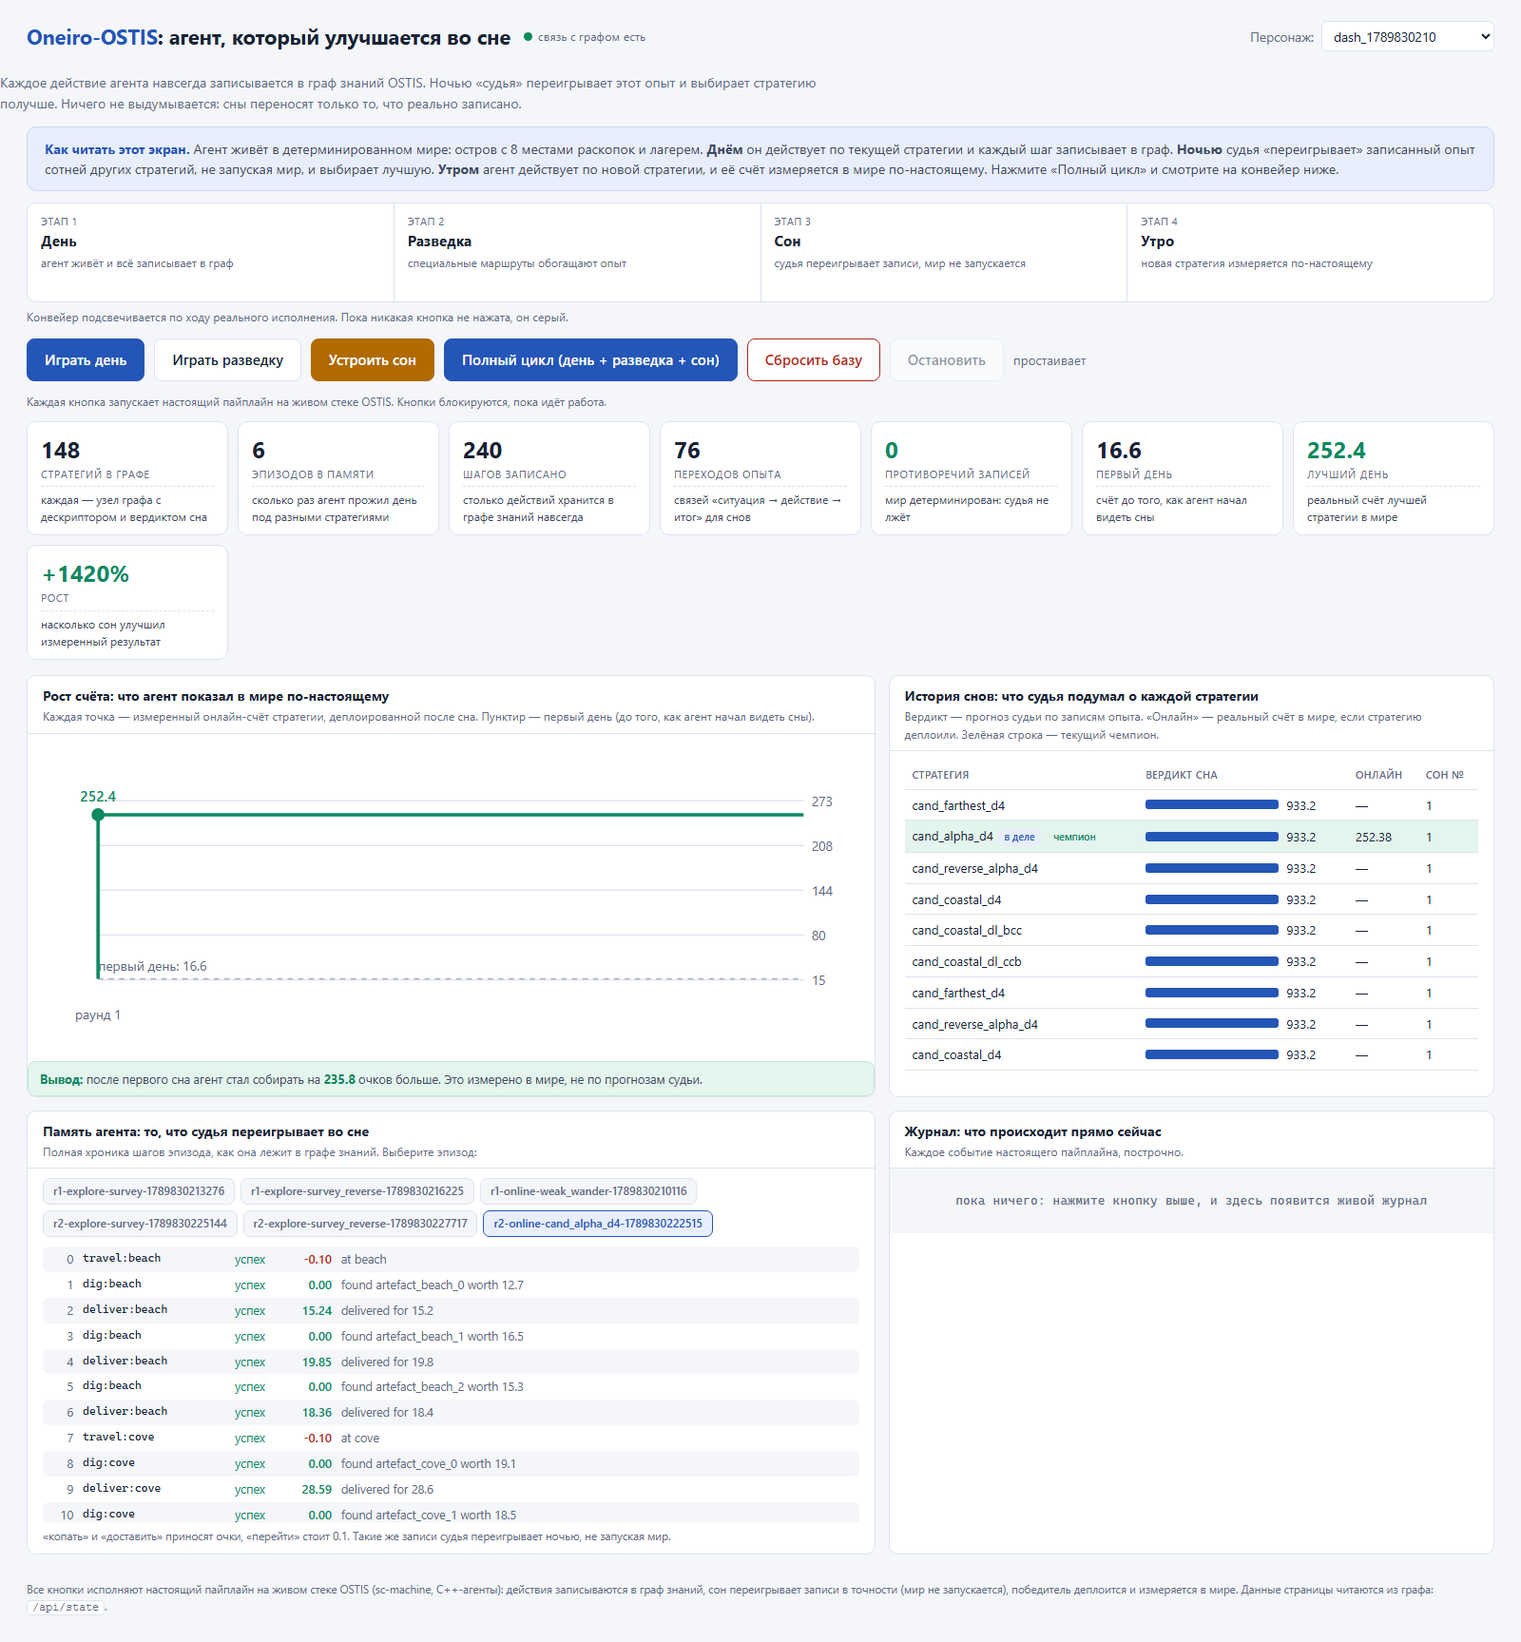
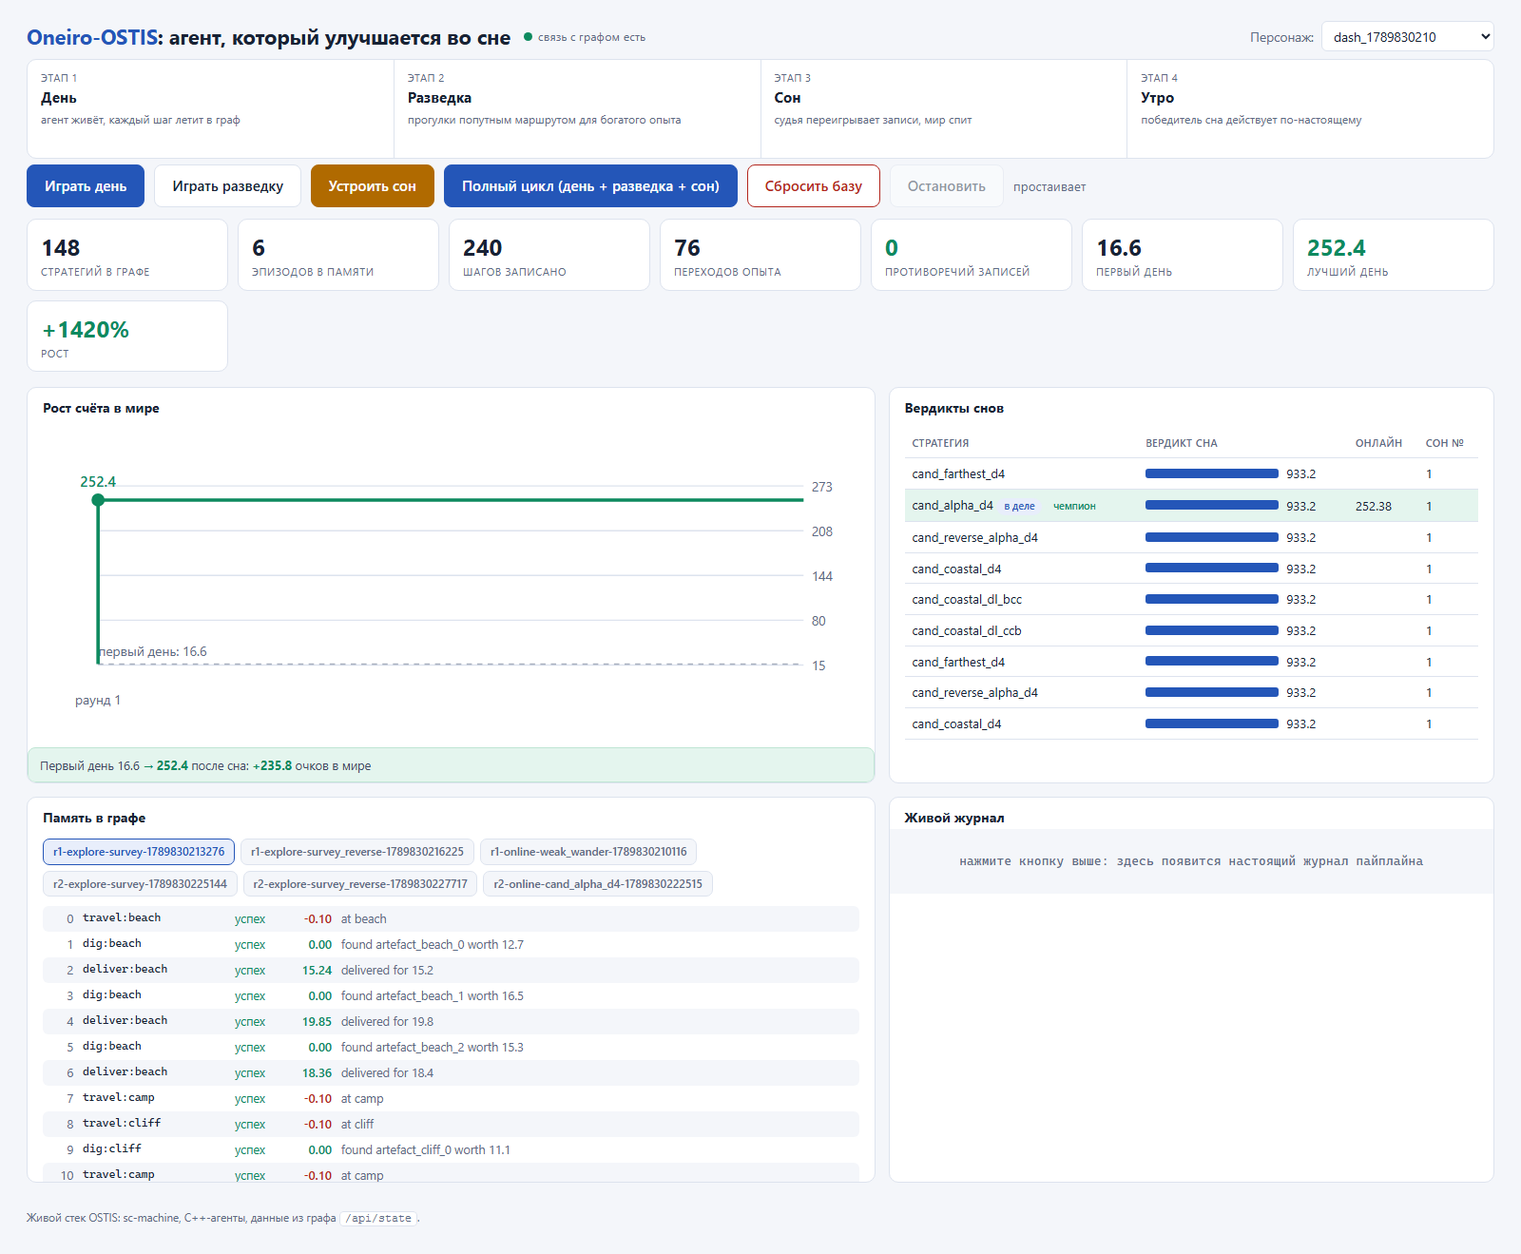
oneiro-ostis: drop explanatory copy layer from dashboard, keep visual clarity

diff --git a/dashboard/index.html b/dashboard/index.html
@@ -5,11 +5,9 @@
 <meta name="viewport" content="width=device-width, initial-scale=1">
 <title>Oneiro-OSTIS: пульт управления</title>
 <style>
-/* ============ дизайн-токены ============
-   Палитра (R-29): чернильный navy + зелёный роста + янтарный акцент сна.
-   Светлая тема: зал жюри и проектор яркие; тёмный «техно» вид был бы
-   дефолтом, а не решением. Референсы: светлые дашборды Intelly/iCarePro
-   (Muzli 2026) — крупные цифры с человеческими подписями. */
+/* Светлая «редакторская» тема (R-29): чернильный navy + зелёный роста +
+   янтарный акцент сна. Причина: зал жюри и проектор яркие, тёмный «техно»
+   вид был бы дефолтом, а не решением. */
 :root{
   --ink:#182234; --ink2:#3d4a63; --dim:#5d6b85;
   --bg:#f4f6fa; --card:#ffffff; --line:#dde3ee;
@@ -27,7 +25,6 @@ body{background:var(--bg);color:var(--ink);font-family:var(--sans);font-size:15p
 header{padding:22px 28px 8px;display:flex;align-items:center;gap:14px;flex-wrap:wrap}
 h1{font-size:1.35rem;margin:0;font-weight:700}
 h1 .hl{color:var(--blue)}
-.tagline{color:var(--dim);font-size:.88rem;width:100%;max-width:900px}
 .conn{display:inline-flex;align-items:center;gap:6px;font-size:.78rem;color:var(--dim)}
 .conn .dot{width:9px;height:9px;border-radius:50%;background:var(--green)}
 .conn .dot.off{background:var(--red)}
@@ -36,12 +33,6 @@ h1 .hl{color:var(--blue)}
 .subj label{color:var(--dim)}
 select{font:inherit;padding:5px 8px;border:1px solid var(--line);border-radius:6px;background:var(--card);color:var(--ink)}
 .hint{color:var(--dim);font-size:.75rem}
-
-/* ============ как это работает: человеческая история ============ */
-.explain{margin:6px 28px 12px;background:var(--blue-bg);border:1px solid #c9d7f5;
-  border-radius:10px;padding:12px 18px;font-size:.88rem;color:var(--ink2);max-width:none}
-.explain b{color:var(--blue)}
-.explain .step-word{font-weight:700}
 
 /* ============ конвейер: живой пульс исполнения ============ */
 .pipeline{display:flex;align-items:stretch;gap:0;margin:0 28px 6px;border:1px solid var(--line);
@@ -59,10 +50,8 @@ select{font:inherit;padding:5px 8px;border:1px solid var(--line);border-radius:6
 .stage.done{background:var(--green-bg)}
 .stage.done .n{color:var(--green)}
 @keyframes pulse{0%,100%{opacity:1}50%{opacity:.35}}
-/* Причина: пульс и янтарная заливка показывают единственный этап, который
-   исполняется прямо сейчас, взгляд следует за реальным выполнением. */
-
-.pipeline-caption{margin:0 28px 14px;color:var(--dim);font-size:.76rem}
+/* Янтарная заливка и пульс: взгляд следует за единственным этапом,
+   который исполняется прямо сейчас. */
 
 /* ============ пульт ============ */
 .deck{display:flex;gap:10px;margin:0 28px 8px;flex-wrap:wrap;align-items:center}
@@ -77,7 +66,6 @@ button:focus-visible{outline:2px solid var(--blue);outline-offset:2px}
 .btn-danger{background:var(--card);border-color:var(--red);color:var(--red)}
 .job{font-size:.84rem;color:var(--dim)}
 .job b{color:var(--amber)}
-.deck-hint{color:var(--dim);font-size:.75rem;width:100%;margin-top:2px}
 
 /* статистика: каждая цифра с человеческим выводом */
 .stats{display:grid;grid-template-columns:repeat(auto-fit,minmax(200px,1fr));gap:10px;margin:12px 28px 16px}
@@ -85,7 +73,6 @@ button:focus-visible{outline:2px solid var(--blue);outline-offset:2px}
 .stat .v{font-size:1.5rem;font-weight:700;font-variant-numeric:tabular-nums}
 .stat .v.grow{color:var(--green)}
 .stat .l{font-size:.7rem;text-transform:uppercase;letter-spacing:.05em;color:var(--dim);margin-top:1px}
-.stat .why{font-size:.75rem;color:var(--ink2);margin-top:4px;border-top:1px dashed var(--line);padding-top:4px}
 
 .grid{display:grid;grid-template-columns:1.4fr 1fr;gap:14px;margin:0 28px 16px}
 @media(max-width:1000px){.grid{grid-template-columns:1fr}}
@@ -153,28 +140,17 @@ footer code{background:var(--card);border:1px solid var(--line);border-radius:4p
     <select id="subjectSel"><option value="">загрузка…</option></select>
   </span>
 </header>
-<p class="tagline">Каждое действие агента навсегда записывается в граф знаний OSTIS. Ночью «судья» переигрывает этот опыт и выбирает стратегию получше. Ничего не выдумывается: сны переносят только то, что реально записано.</p>
-
-<div class="explain" id="explain">
-  <b>Как читать этот экран.</b> Агент живёт в детерминированном мире: остров с 8 местами раскопок
-  и лагерем. <span class="step-word">Днём</span> он действует по текущей стратегии и каждый шаг
-  записывает в граф. <span class="step-word">Ночью</span> судья «переигрывает» записанный опыт
-  сотней других стратегий, не запуская мир, и выбирает лучшую. <span class="step-word">Утром</span>
-  агент действует по новой стратегии, и её счёт измеряется в мире по-настоящему.
-  Нажмите «Полный цикл» и смотрите на конвейер ниже.
-</div>
 
 <div class="pipeline" id="pipeline">
   <div class="stage" data-stage="day"><div class="n">этап 1</div><div class="t">День</div>
-    <div class="d">агент живёт и всё записывает в граф</div><div class="info" id="i-day"></div></div>
+    <div class="d">агент живёт, каждый шаг летит в граф</div><div class="info" id="i-day"></div></div>
   <div class="stage" data-stage="explore"><div class="n">этап 2</div><div class="t">Разведка</div>
-    <div class="d">специальные маршруты обогащают опыт</div><div class="info" id="i-explore"></div></div>
+    <div class="d">прогулки попутным маршрутом для богатого опыта</div><div class="info" id="i-explore"></div></div>
   <div class="stage" data-stage="dream"><div class="n">этап 3</div><div class="t">Сон</div>
-    <div class="d">судья переигрывает записи, мир не запускается</div><div class="info" id="i-dream"></div></div>
+    <div class="d">судья переигрывает записи, мир спит</div><div class="info" id="i-dream"></div></div>
   <div class="stage" data-stage="deploy"><div class="n">этап 4</div><div class="t">Утро</div>
-    <div class="d">новая стратегия измеряется по-настоящему</div><div class="info" id="i-deploy"></div></div>
+    <div class="d">победитель сна действует по-настоящему</div><div class="info" id="i-deploy"></div></div>
 </div>
-<p class="pipeline-caption">Конвейер подсвечивается по ходу реального исполнения. Пока никакая кнопка не нажата, он серый.</p>
 
 <div class="deck">
   <button class="btn-primary" id="btnDay">Играть день</button>
@@ -184,42 +160,33 @@ footer code{background:var(--card);border:1px solid var(--line);border-radius:4p
   <button class="btn-danger" id="btnReset">Сбросить базу</button>
   <button id="btnStop" disabled>Остановить</button>
   <span class="job" id="jobTxt">простаивает</span>
-  <span class="deck-hint">Каждая кнопка запускает настоящий пайплайн на живом стеке OSTIS. Кнопки блокируются, пока идёт работа.</span>
 </div>
 
 <div class="stats" id="stats"></div>
 
 <div class="grid">
   <div class="card">
-    <h2>Рост счёта: что агент показал в мире по-настоящему</h2>
-    <div class="sub">Каждая точка — измеренный онлайн-счёт стратегии, деплоированной после сна. Пунктир — первый день (до того, как агент начал видеть сны).</div>
+    <h2>Рост счёта в мире</h2>
     <div class="body" id="ascent"></div>
     <div class="verdict" id="ascentVerdict"></div>
   </div>
   <div class="card">
-    <h2>История снов: что судья подумал о каждой стратегии</h2>
-    <div class="sub">Вердикт — прогноз судьи по записям опыта. «Онлайн» — реальный счёт в мире, если стратегию деплоили. Зелёная строка — текущий чемпион.</div>
+    <h2>Вердикты снов</h2>
     <div class="body" style="max-height:340px;overflow:auto" id="dreamTable"></div>
   </div>
   <div class="card">
-    <h2>Память агента: то, что судья переигрывает во сне</h2>
-    <div class="sub">Полная хроника шагов эпизода, как она лежит в графе знаний. Выберите эпизод:</div>
+    <h2>Память в графе</h2>
     <div class="ep-tabs" id="epTabs"></div>
     <div class="steps" id="epBody"></div>
-    <div class="ep-legend">«копать» и «доставить» приносят очки, «перейти» стоит 0.1. Такие же записи судья переигрывает ночью, не запуская мир.</div>
   </div>
   <div class="card">
-    <h2>Журнал: что происходит прямо сейчас</h2>
-    <div class="sub">Каждое событие настоящего пайплайна, построчно.</div>
-    <div class="log" id="log"><div class="empty">пока ничего: нажмите кнопку выше, и здесь появится живой журнал</div></div>
+    <h2>Живой журнал</h2>
+    <div class="log" id="log"><div class="empty">нажмите кнопку выше: здесь появится настоящий журнал пайплайна</div></div>
   </div>
 </div>
 
 <footer>
-  Все кнопки исполняют настоящий пайплайн на живом стеке OSTIS (sc-machine, C++-агенты):
-  действия записываются в граф знаний, сон переигрывает записи в точности (мир не запускается),
-  победитель деплоится и измеряется в мире. Данные страницы читаются из графа:
-  <code>/api/state</code>.
+  Живой стек OSTIS: sc-machine, C++-агенты, данные из графа <code>/api/state</code>.
 </footer>
 
 <script>
@@ -272,24 +239,24 @@ function render(d){
     if(d.subject && d.subjects.includes(d.subject)) sel.value = d.subject;
   }
 
-  // статистика: цифра + человеческий вывод
+  // статистика: крупные цифры, подпись мельче
   const deployed = d.strategies.filter(s => s.online != null);
   const first = deployed.length ? Math.min(...deployed.map(s => s.online)) : 0;
   const last = deployed.length ? Math.max(...deployed.map(s => s.online)) : 0;
   const gain = first ? "+" + Math.round(100 * (last - first) / first) + "%" : "0%";
   const c = d.consistency;
   const items = [
-    {l:"стратегий в графе", v:d.strategies.length, why:"каждая — узел графа с дескриптором и вердиктом сна", cls:""},
-    {l:"эпизодов в памяти", v:c.episodes, why:"сколько раз агент прожил день под разными стратегиями", cls:""},
-    {l:"шагов записано", v:c.steps, why:"столько действий хранится в графе знаний навсегда", cls:""},
-    {l:"переходов опыта", v:c.transitions, why:"связей «ситуация → действие → итог» для снов", cls:""},
-    {l:"противоречий записей", v:c.conflicts, why:c.conflicts === 0 ? "мир детерминирован: судья не лжёт" : "записи расходятся, судье нельзя верить", cls:c.conflicts === 0 ? "grow" : ""},
-    {l:"первый день", v:first ? first.toFixed(1) : "0", why:"счёт до того, как агент начал видеть сны", cls:""},
-    {l:"лучший день", v:last ? last.toFixed(1) : "0", why:"реальный счёт лучшей стратегии в мире", cls:"grow"},
-    {l:"рост", v:deployed.length ? gain : "0%", why:"насколько сон улучшил измеренный результат", cls:"grow"},
+    {l:"стратегий в графе", v:d.strategies.length, cls:""},
+    {l:"эпизодов в памяти", v:c.episodes, cls:""},
+    {l:"шагов записано", v:c.steps, cls:""},
+    {l:"переходов опыта", v:c.transitions, cls:""},
+    {l:"противоречий записей", v:c.conflicts, cls:c.conflicts === 0 ? "grow" : ""},
+    {l:"первый день", v:first ? first.toFixed(1) : "0", cls:""},
+    {l:"лучший день", v:last ? last.toFixed(1) : "0", cls:"grow"},
+    {l:"рост", v:deployed.length ? gain : "0%", cls:"grow"},
   ];
   $("stats").innerHTML = items.map(it =>
-    `<div class="stat"><div class="v ${it.cls}">${it.v}</div><div class="l">${it.l}</div><div class="why">${it.why}</div></div>`).join("");
+    `<div class="stat"><div class="v ${it.cls}">${it.v}</div><div class="l">${it.l}</div></div>`).join("");
 
   renderAscent(deployed, first);
   renderTable(d.strategies);
@@ -335,13 +302,13 @@ function renderAscent(deployed, first){
   s += `</svg>`;
   $("ascent").innerHTML = s;
 
-  // человеческий вывод под графиком
+  // вывод одной строкой, цифрами
   const v = $("ascentVerdict");
   if(pts.length && first){
     const gained = pts[pts.length-1].v - first;
     v.innerHTML = gained > 0
-      ? `<b>Вывод:</b> после первого сна агент стал собирать на <b>${gained.toFixed(1)}</b> очков больше. Это измерено в мире, не по прогнозам судьи.`
-      : `<b>Вывод:</b> пока сон не дал роста на этом персонаже: честная нижняя граница метода.`;
+      ? `Первый день ${first.toFixed(1)} <b>→ ${pts[pts.length-1].v.toFixed(1)}</b> после сна: <b>+${gained.toFixed(1)}</b> очков в мире`
+      : `Сон пока не дал роста: ${first.toFixed(1)} → ${pts[pts.length-1].v.toFixed(1)}`;
   }
 }
 
@@ -363,9 +330,9 @@ function renderTable(strategies){
         <td>${st.name || "(без имени)"}
           ${st.online != null ? `<span class="tag dep">в деле</span>` : ""}
           ${isWin ? `<span class="tag win">чемпион</span>` : ""}</td>
-        <td><span class="bar-wrap"><span class="bar" style="width:0" data-w="${barW}"></span>${st.replay ?? "—"}</span></td>
-        <td>${st.online != null ? st.online.toFixed(2) : "—"}</td>
-        <td>${st.round ?? "—"}</td></tr>`;
+        <td><span class="bar-wrap"><span class="bar" style="width:0" data-w="${barW}"></span>${st.replay ?? ""}</span></td>
+        <td>${st.online != null ? st.online.toFixed(2) : ""}</td>
+        <td>${st.round ?? ""}</td></tr>`;
     }).join("") + `</table>`;
   requestAnimationFrame(() => requestAnimationFrame(() => {
     document.querySelectorAll(".bar[data-w]").forEach(b => b.style.width = b.dataset.w + "px");
